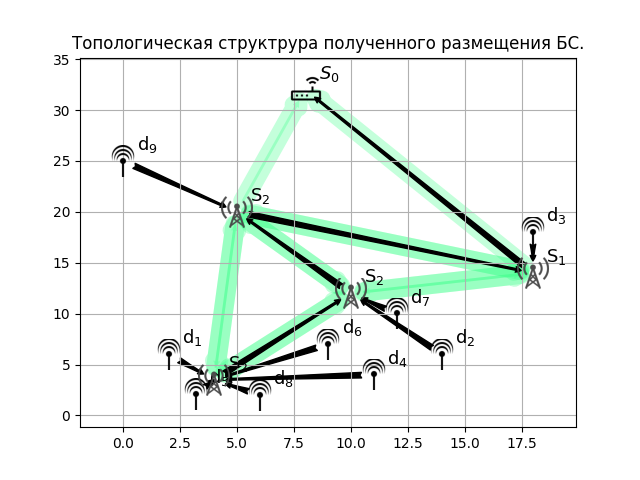
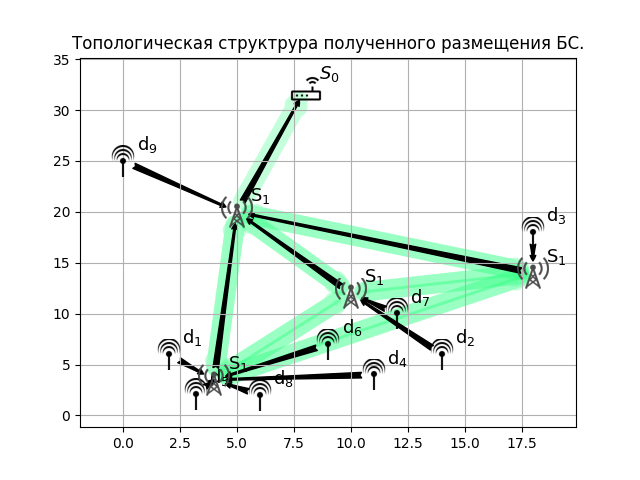
added binary variable yij

diff --git a/src/op/mipop.py b/src/op/mipop.py
@@ -56,8 +56,9 @@ class OF(Matrix):
         # Cost * y -> min
         y_col = np.where(np.in1d(self.data.columns.values,
                                  self.column.y))
-        self.data.iloc[0, y_col] = [input_data.station[i]['cost']
-                                    for i in input_data.station.keys()]
+
+        self.data.iloc[0, y_col] = [input_data.station[i[0]]['cost']
+                                    for i in self.var.edge_x]
 
         self.int_constraints = np.where(np.in1d(self.data.columns.values,
                                                 self.column.y))
@@ -90,7 +91,7 @@ class OF(Matrix):
         -------
             objective function
         """
-        data = np.zeros([1, len(self.column.name)]).astype(int)
+        data = np.zeros([1, len(self.var.name)]).astype(int)
         self.data = pd.DataFrame(data, columns=self.column.name)
 
         self.prepare_of_variables(input_data, var_name, col_name)
@@ -197,8 +198,21 @@ class EqualityConstraints(Constraints):
             _col, = np.where(net.adj_matrix[i, :] == 1)
             _var_name = [f"x{i}_{_col[j]}" for j in range(len(_col))]
             _column, = np.where(np.in1d(self.var.name, _var_name))
-            self.data.iloc[i, _column] = -1
-            self.b[i] = 0
+            self.data.iloc[data_row, _column] = -1
+            self.b[data_row] = 0
+
+    def outgoing_edge_conditions(self, input_data: InputData, net: Network):
+        """
+        From any station must go out only one link.
+        """
+        for i in input_data.station.keys():
+            data_row = self.counter()
+            _col, = np.where(net.adj_matrix[i, :] == 1)
+            _var_name = [f"y{i}_{_col[j]}" for j in range(len(_col))]
+            _column, = np.where(np.in1d(self.var.name, _var_name))
+            self.data.iloc[data_row, _column] = 1
+            self.b[data_row] = 1
+            a = 1
 
     def create(self,
                input_data: InputData,
@@ -217,9 +231,7 @@ class EqualityConstraints(Constraints):
         """
 
         # TODO: check number of row
-        row_number = (len(input_data.gateway) +
-                      len(input_data.device) +
-                      len(input_data.station))
+        row_number = 1000
 
         data = np.zeros([row_number, len(self.column.name)]).astype(int)
         self.b = np.zeros(row_number)
@@ -229,6 +241,8 @@ class EqualityConstraints(Constraints):
         self.gateway_conditions(input_data, net)
         self.device_conditions(input_data, net)
         self.station_conditions(input_data, net)
+        # self.outgoing_edge_conditions(input_data, net)
+
 
         # deleting empty last rows
         _row = self.counter()
@@ -273,22 +287,46 @@ class InequalityConstraints(Constraints):
                                     data_row: int,
                                     input_data: InputData):
         """ Traffic is limited by intensity of station service time"""
-        _column = np.where(np.in1d(self.var.name, f"y{i}"))
+        _y_var_name = [f"y{j[0]}_{j[1]}" for j in self.var.edge_x if j[0] == i]
+        _column = np.where(np.in1d(self.var.name, _y_var_name))
         self.data.iloc[data_row, _column] = (
                 -1 * input_data.station[i]["intensity"]
         )
 
+    # def outgoing_edge_conditions(self, input_data: InputData, net: Network):
+    #     """
+    #     From any station must go out only one link.
+    #     """
+    #     for i in input_data.station.keys():
+    #         data_row = self.counter()
+    #         _col, = np.where(net.adj_matrix[i, :] == 1)
+    #         _var_name = [f"y{i}_{_col[j]}" for j in range(len(_col))]
+    #         _column, = np.where(np.in1d(self.var.name, _var_name))
+    #         self.data.iloc[data_row, _column] = 1
+    #         self.b[data_row] = 1
+    #         a = 1
+
     def to_place_only_one_station_condition(self,
-                                            input_data: InputData):
+                                            input_data: InputData,
+                                            net: Network):
         """In each point coordinate must be only one placed station"""
-        for k in range(0, len(input_data.station), len(input_data.type)):
+        for i in input_data.station.keys():
             data_row = self.counter()
-            y_name = [
-                f"y{k + len(input_data.device) + 1 + j}"
-                for j in range(len(input_data.type))]
-            _col, = np.where(np.in1d(self.var.name, y_name))
-            self.data.iloc[data_row, _col] = 1
+            _col, = np.where(net.adj_matrix[i, :] == 1)
+            _var_name = [f"y{i}_{_col[j]}" for j in range(len(_col))]
+            _column, = np.where(np.in1d(self.var.name, _var_name))
+            self.data.iloc[data_row, _column] = 1
             self.b[data_row] = 1
+        a = 1
+        # for k in range(0, len(input_data.station), len(input_data.type)):
+        #     data_row = self.counter()
+        #     y_name = [
+        #         f"y{k + len(input_data.device) + 1 + j}"
+        #         for j in range(len(input_data.type))]
+        #     _col, = np.where(np.in1d(self.var.name, y_name))
+        #     self.data.iloc[data_row, _col] = 1
+        #     self.b[data_row] = 1
+
 
     def station_conditions(self, input_data, net) -> None:
         for i in input_data.station.keys():
@@ -297,23 +335,7 @@ class InequalityConstraints(Constraints):
 
             self.get_station_limit_condition(i, data_row, input_data)
 
-        # TODO: check this condition
-        # """ All traffic from sta is no more than intensity of station
-        # service time"""
-        # for i in input_data.station.keys():
-        #     data_row = self.counter()
-        #     _row, = np.where(net.adj_matrix[i, :] == 1)
-        #     for j in _row:
-        #         _var_name = [f"x{i}_{j}"]
-        #         _col = np.where(np.in1d(self.var.name, _var_name))
-        #         self.data.iloc[data_row, _col] = 1
-        #
-        #     _column = np.where(np.in1d(self.var.name, f"y{i}"))
-        #     self.data.iloc[data_row, _column] = (
-        #             -1 * input_data.station[i]["intensity"]
-        #     )
-
-        self.to_place_only_one_station_condition(input_data)
+        self.to_place_only_one_station_condition(input_data, net)
 
     def create(self, input_data, net) -> None:
         """

diff --git a/src/op/varnames.py b/src/op/varnames.py
@@ -55,7 +55,8 @@ def get_variable_name(input_data: InputData,
     var_z = create_edge_var_name('z', edge_z)
     var_x = create_edge_var_name('x', edge_x)
 
-    var_y = ['y' + str(i) for i in input_data.station.keys()]
+    # var_y = ['y' + str(i) for i in input_data.station.keys()]
+    var_y = create_edge_var_name('y', edge_x)
 
     return VarName(var_z, edge_z, var_x, edge_x, var_y)
 
@@ -101,12 +102,16 @@ def get_column_name(input_data: InputData, adj_matrix: np.array) -> VarName:
         edge_nodes=sta2sta_edge,
         sep='->')
 
-    _sp = list(product(
-        station_point,
-        list(map(lambda x: x + 1, input_data.type.keys()))))
+    # _sp = list(product(
+    #     station_point,
+    #     list(map(lambda x: x + 1, input_data.type.keys()))))
+    # _coordinate_n_sta = [f'c{_[0]}_s{_[1]}' for _ in _sp]  # y=_coordinate_n_sta
 
-    _coordinate_n_sta = [f'c{_[0]}_s{_[1]}' for _ in _sp]
-    return VarName(z=device2sta, x=(sta2sta + sta2gtw), y=_coordinate_n_sta)
+    _edge = sta2sta + sta2gtw
+    binary_value_y = [f'Y_{i}' for i in _edge]
+
+
+    return VarName(z=device2sta, x=(sta2sta + sta2gtw), y=binary_value_y)
 
 
 def create_names(input_data: InputData, adj_matrix: np.array) -> Tuple[VarName, VarName]:

diff --git a/src/drawing/draw.py b/src/drawing/draw.py
@@ -122,10 +122,14 @@ def prepare_draw_graph(net: Network, problem: MIP, solution: pd.Series
 
     y_node = list(zip(problem.of.column.y, problem.of.var.y))
     solution_variable = edge_z + edge_x + y_node
+    _edge = edge_z + edge_x + edge_x
     labels = {}
     for k in range(len(solution)):
         if solution_variable[k][0] == solution.index[k]:
-            labels.update({solution_variable[k][1][1:]: solution[k]})
+            a = solution_variable[k][0]
+            b = solution.index[k]
+            labels.update({_edge[k][1]: solution[k]})
+            a = 1
         else:
             if solution[k] != 0:
                 i, j = solution_variable[k]
@@ -201,7 +205,7 @@ def draw_mip_graph(net: Network, problem: MIP, solution: pd.Series) -> None:
         elif i in net.device.keys():
             node_label.update({int(i): f"d$_{{{i}}}$"})
         elif i in net.station.keys():
-            node_label.update({int(i): f"S$_{{{sta[str(i)]}}}$"})
+            node_label.update({int(i): f"S$_{{{sta[i]}}}$"})
 
 
     icons = {
